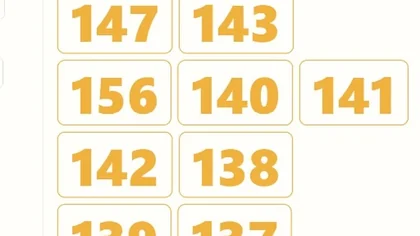
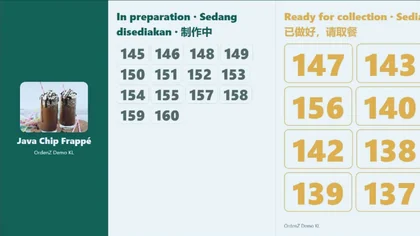
Rail: Token TV card shows the full token screen

diff --git a/scripts/make-token-tv-rail.py b/scripts/make-token-tv-rail.py
@@ -1,0 +1,29 @@
+"""Token TV rail cards (420x236) showing the whole token screen: promo, In preparation, Ready."""
+from pathlib import Path
+from PIL import Image
+
+IMG = Path("src/assets/img")
+SIZE = (420, 236)
+
+
+def save(im, name):
+    im.convert("RGB").resize(SIZE, Image.Resampling.LANCZOS).save(IMG / name, "WEBP", quality=86, method=6)
+    print(name)
+
+
+src_my = Path("_src_token_my.png")
+if src_my.exists():
+    im = Image.open(src_my)
+    # Joshua's capture has dark bars above and below the screen; keep the screen at 16:9.
+    top, bottom = 47, 535
+    w = round((bottom - top) * SIZE[0] / SIZE[1])
+    save(im.crop((3, top, 3 + w, bottom)), "token-screen-my-rail.webp")
+
+im = Image.open(IMG / "token-screen.webp").convert("RGB")
+crop = im.crop((0, round(im.height * 0.125), round(im.width * 0.88), round(im.height * 0.875)))
+s = SIZE[0] / crop.width
+crop = crop.resize((SIZE[0], round(crop.height * s)), Image.Resampling.LANCZOS)
+card = Image.new("RGB", SIZE, (11, 17, 15))
+card.paste(crop, (0, (SIZE[1] - crop.height) // 2))
+card.save(IMG / "token-screen-rail.webp", "WEBP", quality=86, method=6)
+print("token-screen-rail.webp", crop.size)

diff --git a/scripts/make-rail-crops.py b/scripts/make-rail-crops.py
@@ -17,8 +17,6 @@ CROPS = {
     "tableturn": (0.0, 0.10, 0.50, 0.60),
     "showcase": (0.0, 0.0, 0.67, 0.67),
     "showcase-my": (0.15, 0.10, 0.85, 0.80),
-    "token-screen": (0.50, 0.26, 1.0, 0.76),
-    "token-screen-my": (0.50, 0.26, 1.0, 0.76),
 }
 
 for name, (x0, y0, x1, y1) in CROPS.items():
